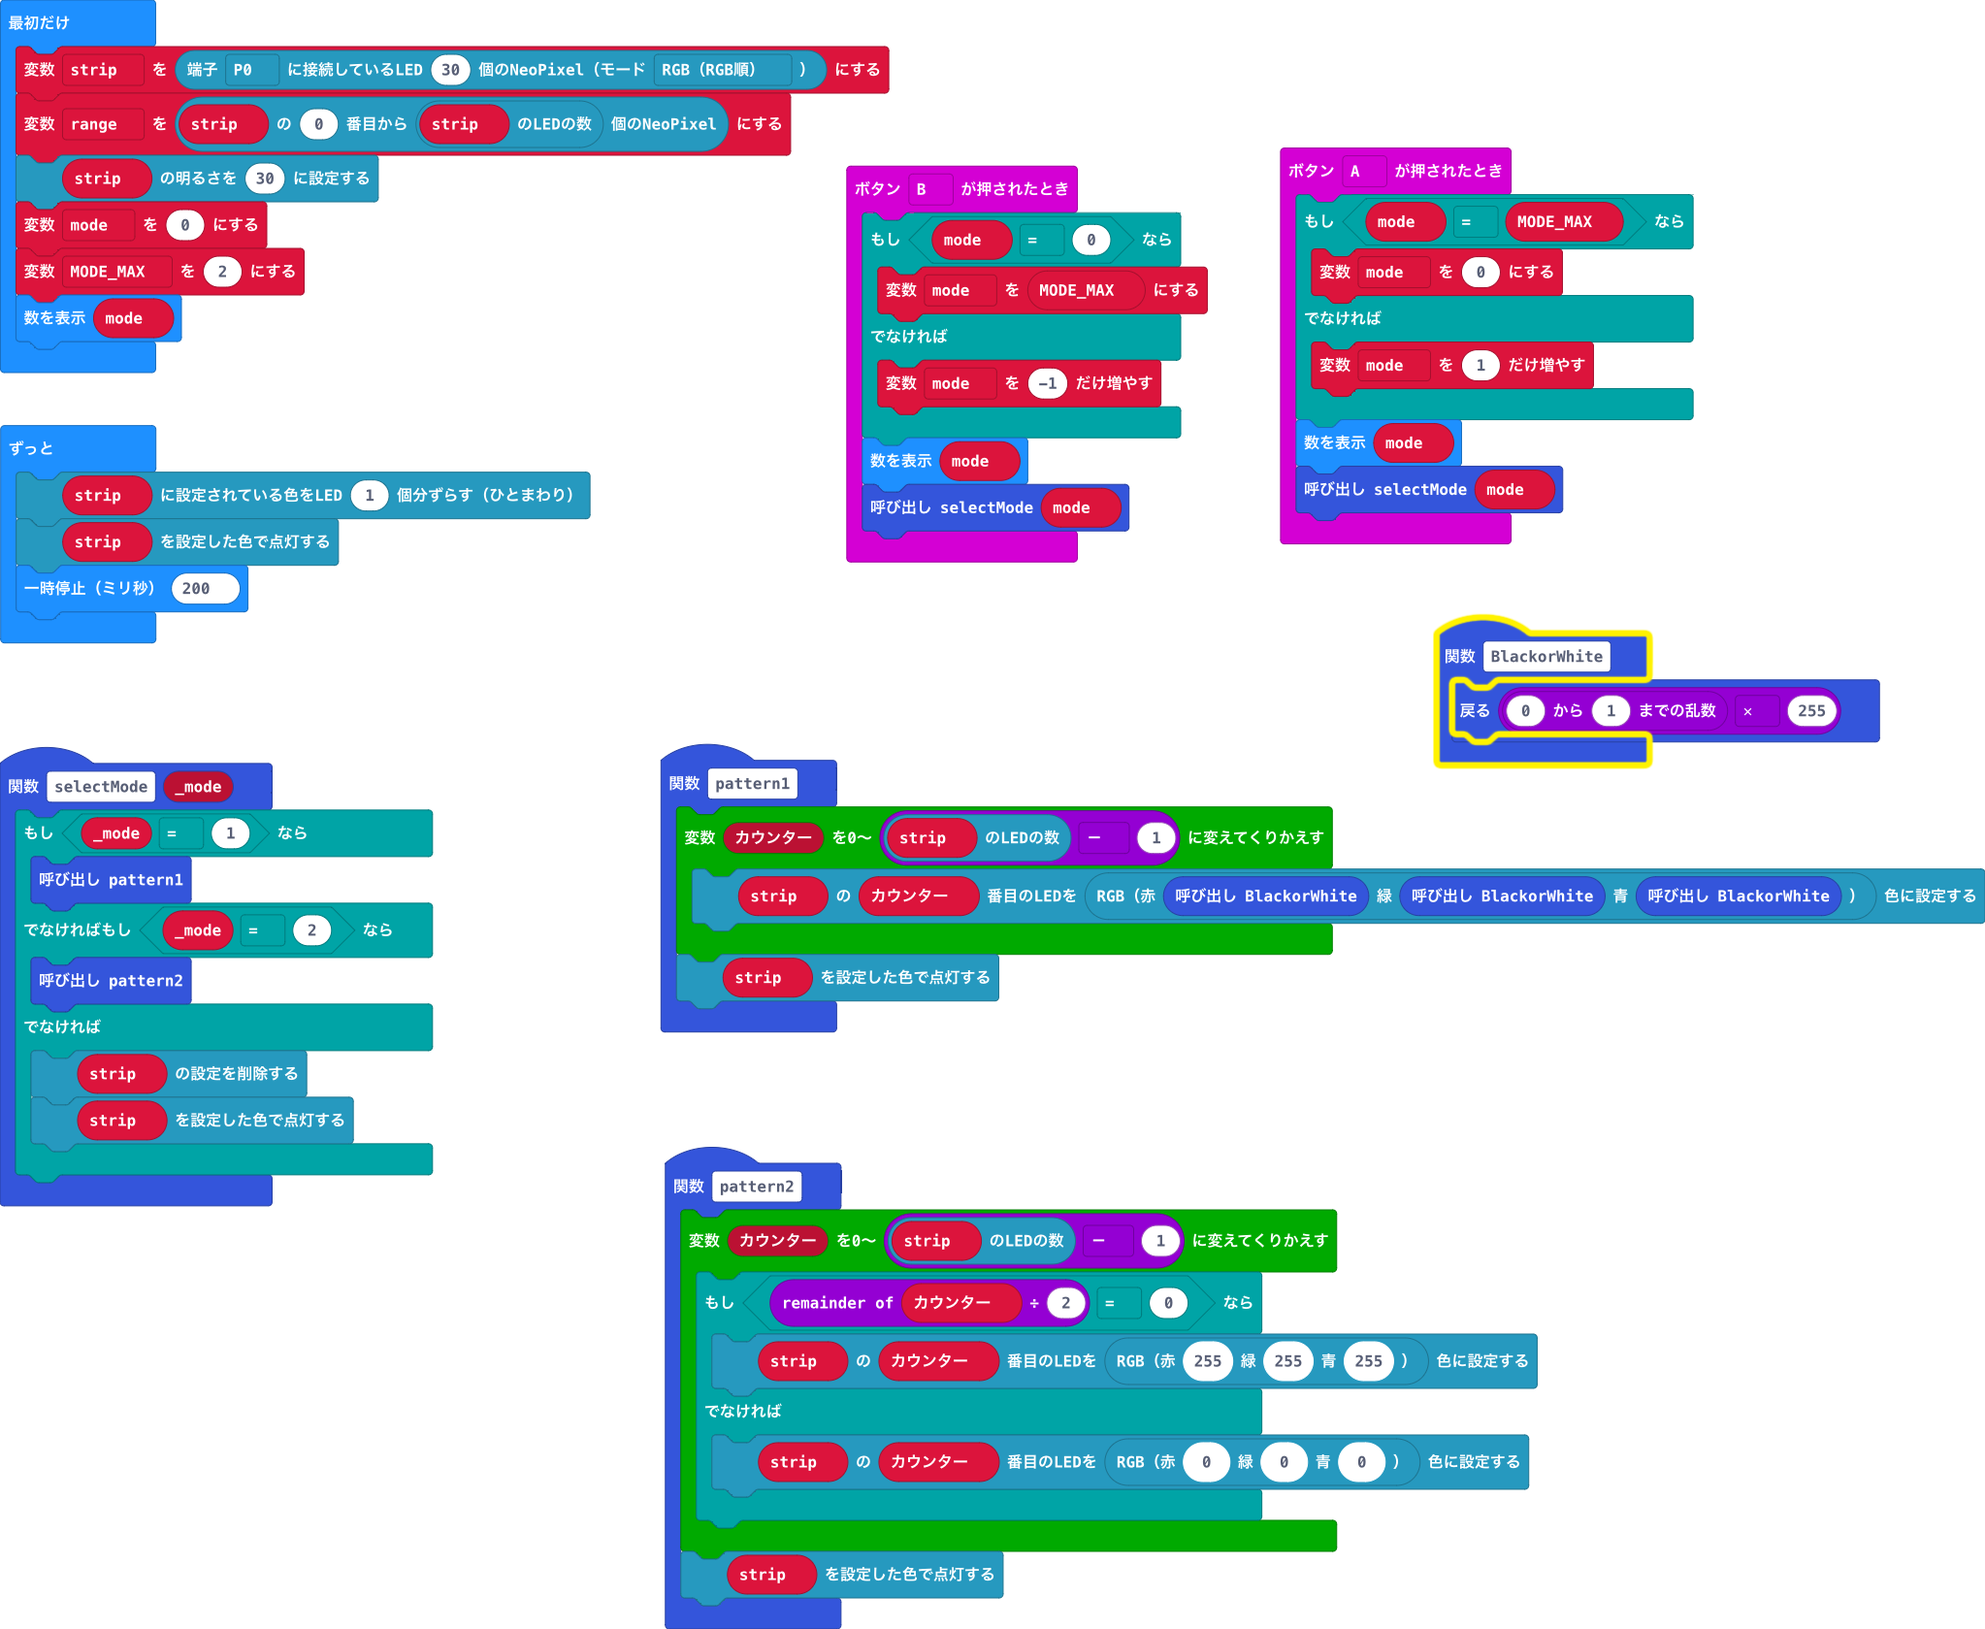
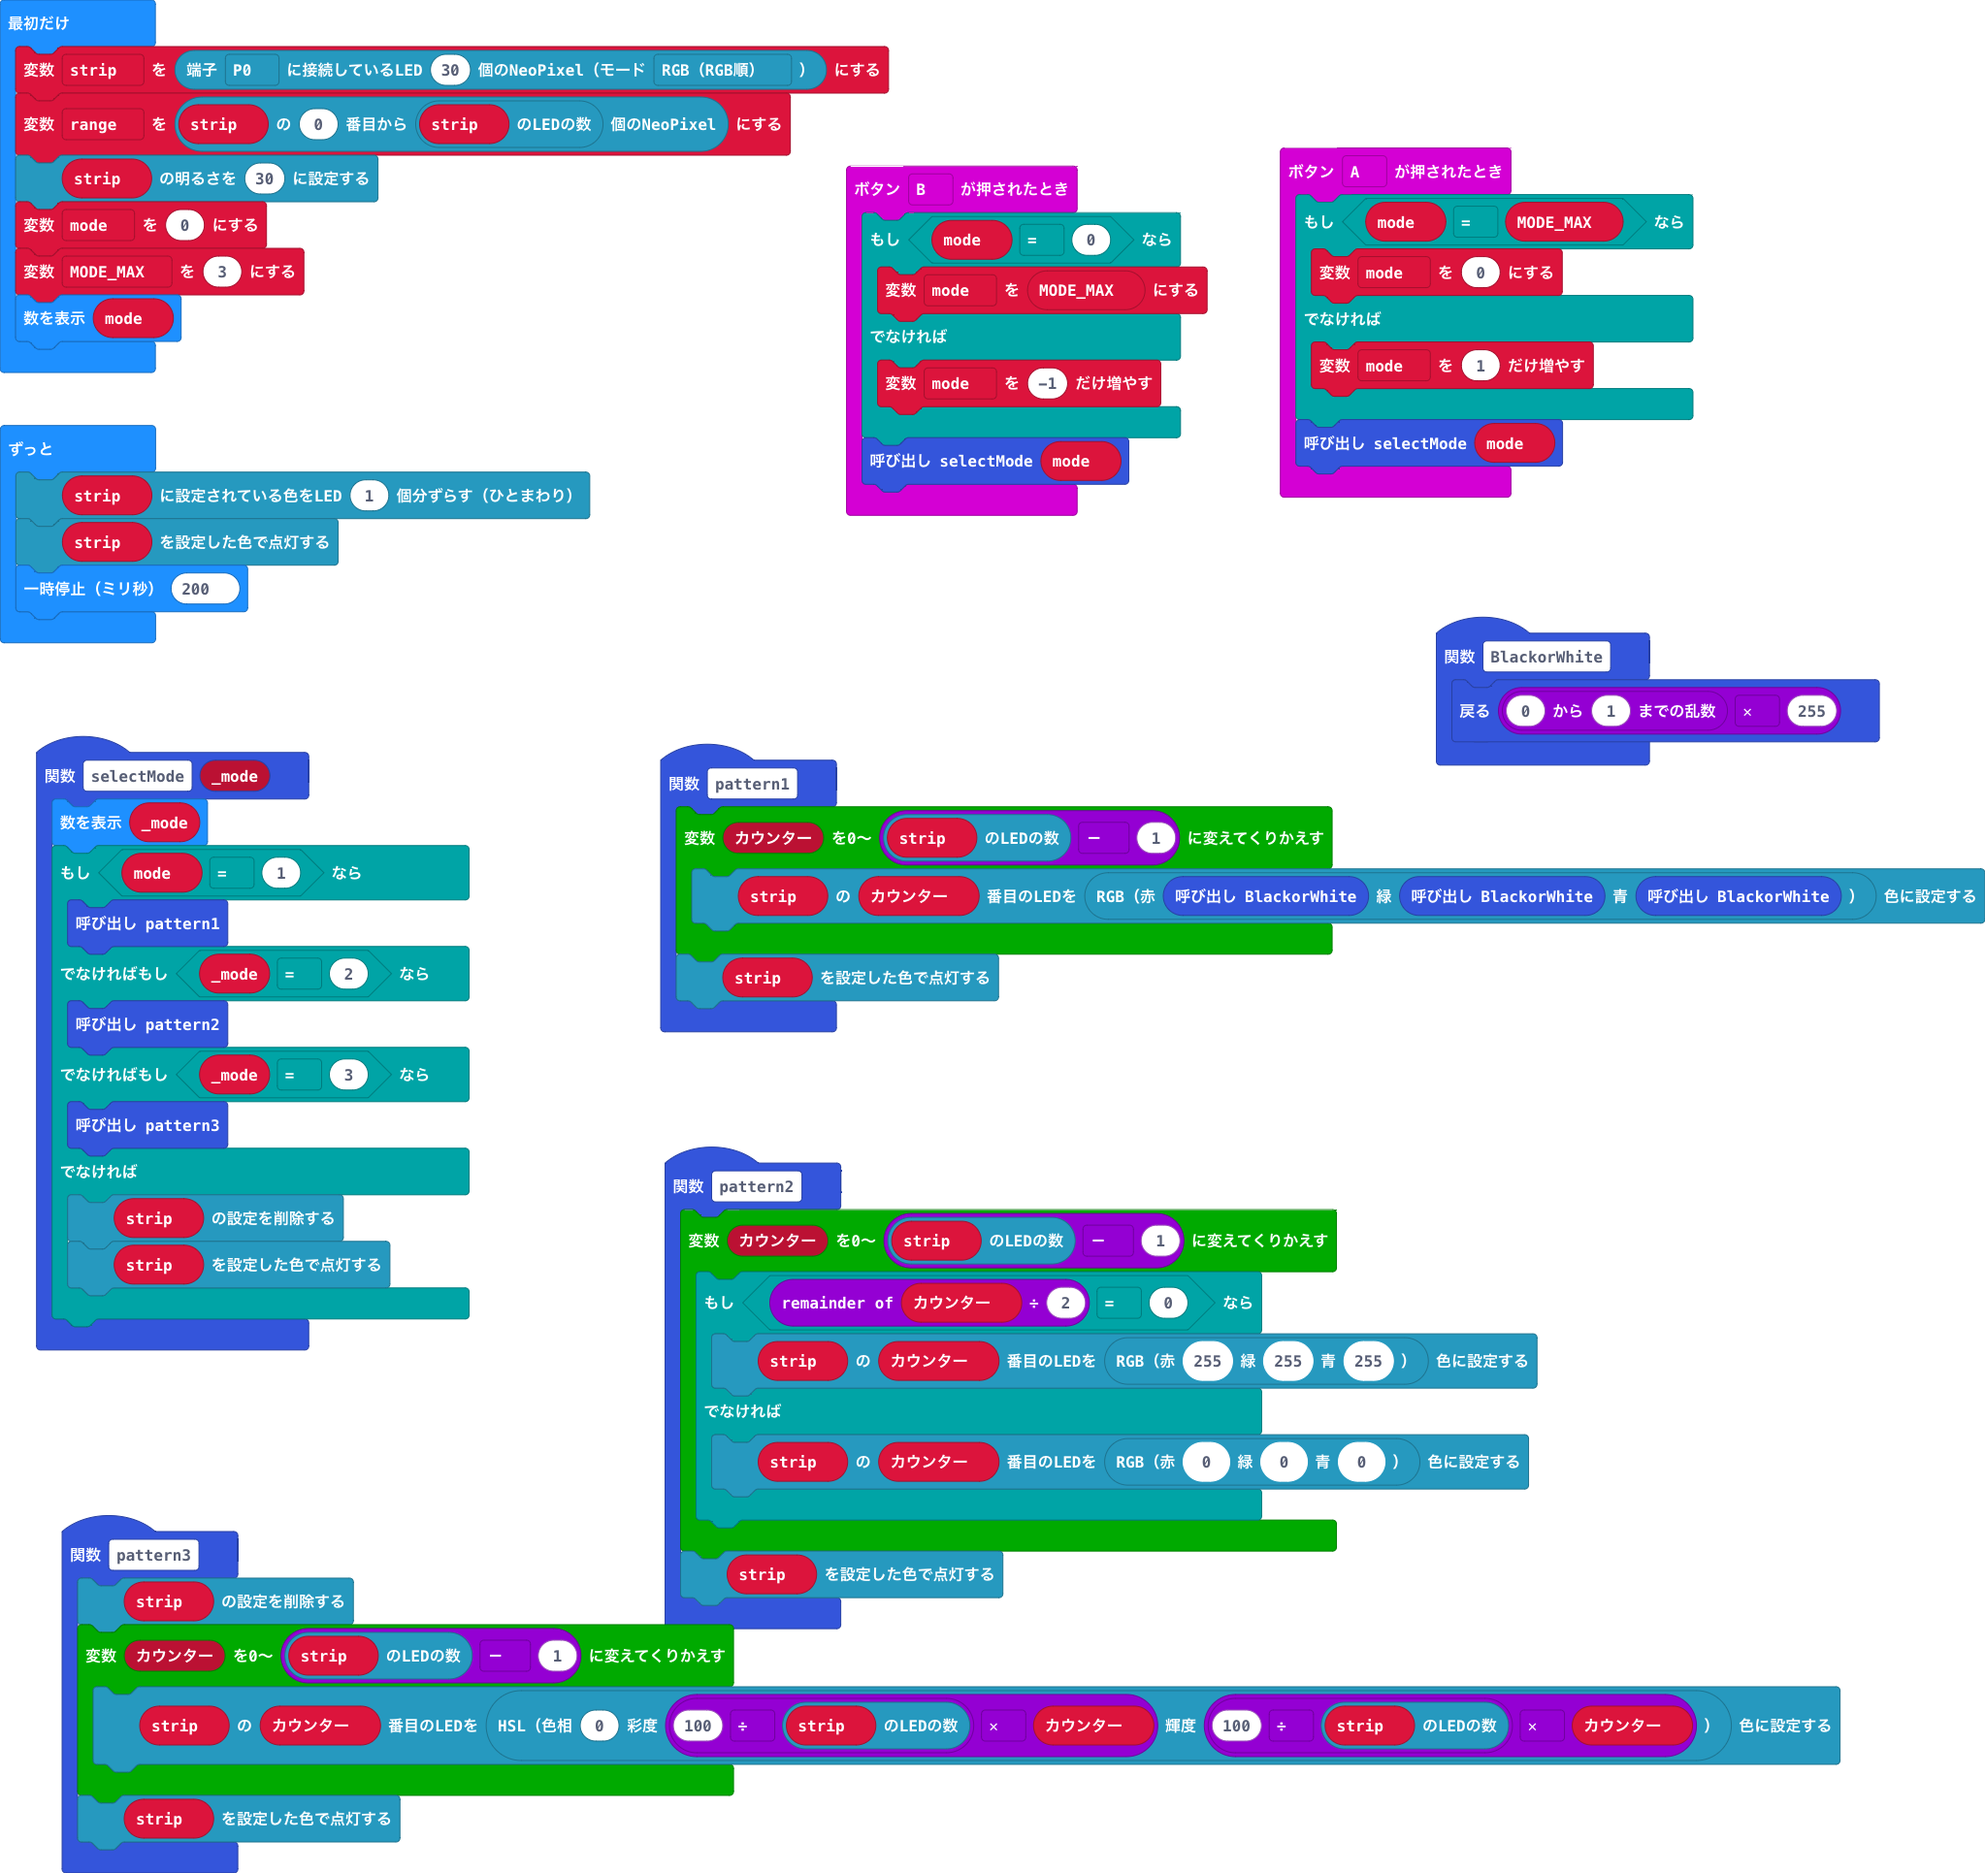
Add pattern3

diff --git a/main.ts b/main.ts
@@ -1,3 +1,10 @@
+function pattern3 () {
+    strip.clear()
+    for (let カウンター = 0; カウンター <= strip.length() - 1; カウンター++) {
+        strip.setPixelColor(カウンター, neopixel.hsl(0, 100 / strip.length() * カウンター, 100 / strip.length() * カウンター))
+    }
+    strip.show()
+}
 function pattern2 () {
     for (let カウンター = 0; カウンター <= strip.length() - 1; カウンター++) {
         if (カウンター % 2 == 0) {
@@ -17,7 +24,6 @@ input.onButtonPressed(Button.A, function () {
     } else {
         mode += 1
     }
-    basic.showNumber(mode)
     selectMode(mode)
 })
 input.onButtonPressed(Button.B, function () {
@@ -26,7 +32,6 @@ input.onButtonPressed(Button.B, function () {
     } else {
         mode += -1
     }
-    basic.showNumber(mode)
     selectMode(mode)
 })
 function pattern1 () {
@@ -36,10 +41,13 @@ function pattern1 () {
     strip.show()
 }
 function selectMode (_mode: number) {
-    if (_mode == 1) {
+    basic.showNumber(_mode)
+    if (mode == 1) {
         pattern1()
     } else if (_mode == 2) {
         pattern2()
+    } else if (_mode == 3) {
+        pattern3()
     } else {
         strip.clear()
         strip.show()
@@ -52,7 +60,7 @@ strip = neopixel.create(DigitalPin.P0, 30, NeoPixelMode.RGB_RGB)
 let range = strip.range(0, strip.length())
 strip.setBrightness(30)
 mode = 0
-MODE_MAX = 2
+MODE_MAX = 3
 basic.showNumber(mode)
 basic.forever(function () {
     strip.rotate(1)
